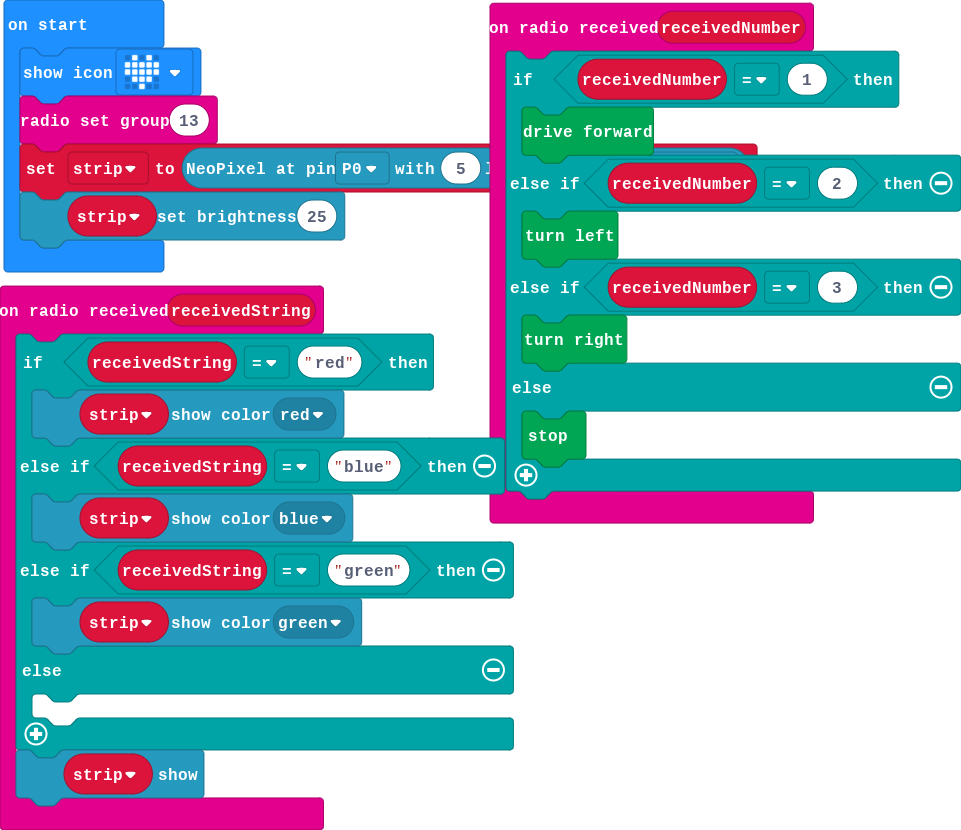
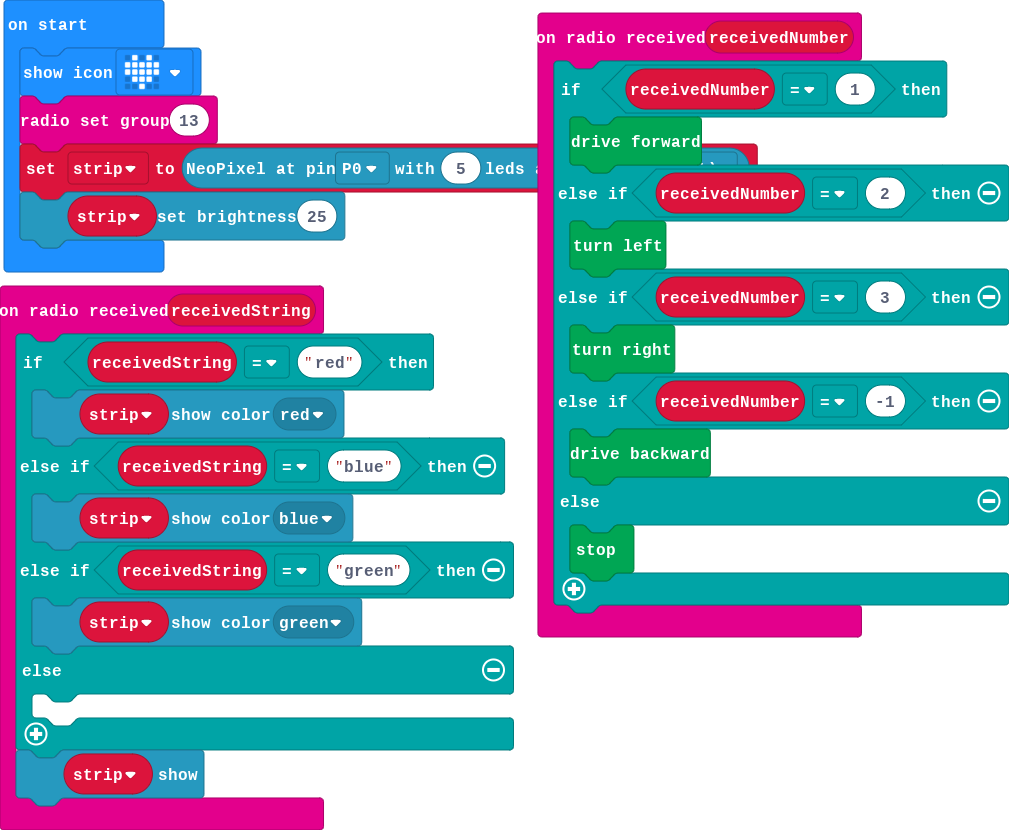
Update main.blocks, main.ts

diff --git a/main.ts b/main.ts
@@ -17,6 +17,8 @@ radio.onReceivedNumber(function (receivedNumber) {
         kitronik_servo_lite.left()
     } else if (receivedNumber == 3) {
         kitronik_servo_lite.right()
+    } else if (receivedNumber == -1) {
+        kitronik_servo_lite.backward()
     } else {
         kitronik_servo_lite.stop()
     }
